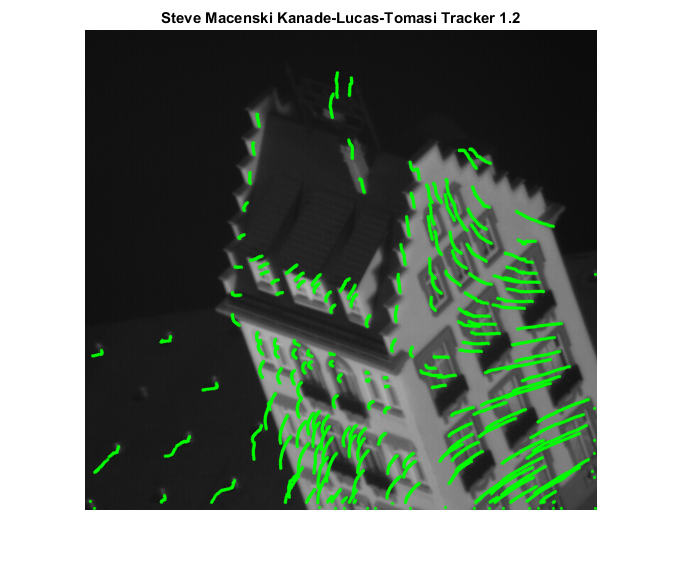
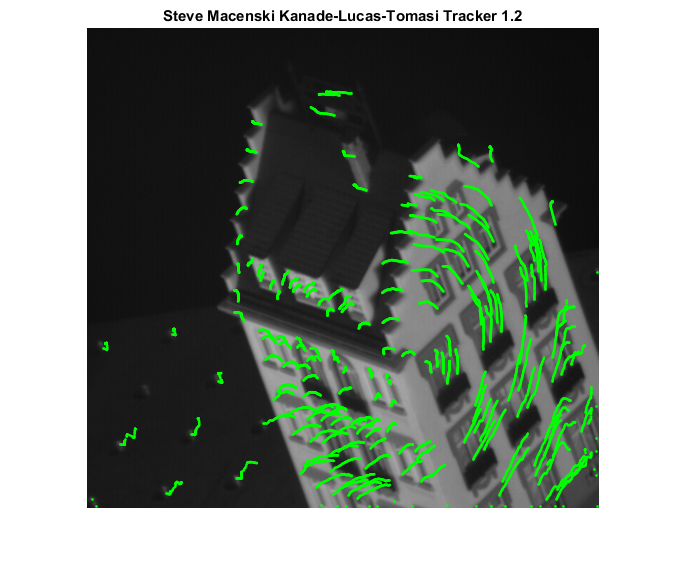
final hw2 commit

diff --git a/hw2/hw2_supp/tracking/runThis.m b/hw2/hw2_supp/tracking/runThis.m
@@ -34,7 +34,7 @@ startXs = Xkey; startYs = Ykey;
 trackingXs(:,1) = Xkey; trackingYs(:,1) = Ykey;
 
 for j = 1:num_im
-
+    
     %read in images
     im0 = double(imread(image_files{j}));
     im1 = double(imread(image_files{j+1}));
@@ -47,8 +47,8 @@ for j = 1:num_im
     % save keypoints over time
     trackingXs(:,j+1) = newXs; trackingYs(:,j+1) = newYs;
 end
-
-                        %     % display ALL results for visualization
+%%
+                            % display ALL results for visualization
 %                         figure(2)
 %                         imshow(im);
 %                         hold on;
@@ -59,12 +59,11 @@ end
 %                         points_out_of_boundsY = [];
 %                         points_in_boundX = [];
 %                         points_in_boundY = [];
-
+%%
 %find what points are in and out of bounds
 n=1;m=1;
 for i=1:num_keypoints
    if length(find(trackingXs(i,:) == 0)) >= 2 || length(find(trackingYs(i,:) == 0)) >= 2
-      
       points_out_of_boundsX(n,:) = trackingXs(i,:); 
       points_out_of_boundsY(n,:) = trackingYs(i,:); 
       n=n+1;
@@ -81,9 +80,8 @@ step_size = floor(step_size);
 for i = 1:20
     points_in_bound_plotX(i,:) = points_in_boundX(step_size*i,:);
     points_in_bound_plotY(i,:) = points_in_boundY(step_size*i,:);
-    
 end
-
+%%
     % display requested output 1 
 figure(3)
 imshow(im);
@@ -98,3 +96,4 @@ hold on;
 plot(points_out_of_boundsX,points_out_of_boundsY, 'g.', 'linewidth',3);
 title('Steve Macenski Kanade-Lucas-Tomasi Tracker out of frame 1.2')
 
+%%

diff --git a/hw2/hw2_supp/tracking/predictTranslation.m b/hw2/hw2_supp/tracking/predictTranslation.m
@@ -1,4 +1,4 @@
-function [ newX, newY ] = predictTranslation( startX, startY, Ix, Iy, im0, im1 )
+function [ newX, newY ] = predictTranslation( startX, startY, Ix, Iy, im0, im1, oldX, oldY )
 %predictTranslation, for single X,Y positions
 % Will interpolate Ix,Iy,im0,im1 for non-integer locations
 
@@ -6,8 +6,10 @@ function [ newX, newY ] = predictTranslation( startX, startY, Ix, Iy, im0, im1 )
 
   % find local 15x15 window It for current point
   [localX, localY] = meshgrid(startX-7:startX+7, startY-7:startY+7);
+  [localXO, localYO] = meshgrid(oldX-7:oldX+7, oldY-7:oldY+7);
+
   It = interp2(im1,localX, localY, 'linear') - ...
-            interp2(im0,localX, localY, 'linear');
+            interp2(im0,localXO, localYO, 'linear');
 
   % find sums to populate A and b matrices
   sumIx = sum(sum(Ix.*Ix));
@@ -22,7 +24,7 @@ function [ newX, newY ] = predictTranslation( startX, startY, Ix, Iy, im0, im1 )
   b = [-sumIxt; -sumIyt];
   x = A\b;
   u = x(1); v = x(2);
-  
+
   %update guess
   newX = startX + u;
   newY = startY + v;

diff --git a/hw2/hw2_supp/tracking/predictTranslationAll.m b/hw2/hw2_supp/tracking/predictTranslationAll.m
@@ -12,8 +12,8 @@ newYs = zeros(num_keypoints,1);
 
 % find gradient of im0
 P = fspecial('sobel');
-Ix = double(imfilter(im0, P)); %[1, 0, -1]
-Iy = double(imfilter(im0, P')); %[1, 0, -1]'
+Ix = double(imfilter(im0, P')); %[1, 0, -1]
+Iy = double(imfilter(im0, P)); %[1, 0, -1]'
 
 %for each keypoint
 for  i = 1:num_keypoints
@@ -34,8 +34,10 @@ for  i = 1:num_keypoints
         localIx = interp2(Ix, localX, localY, 'linear'); %try linear
         localIy = interp2(Iy, localX, localY, 'linear'); %try linear
     
+        oldX = newX;
+        oldY = newY;
         for j = 1:5
-            [newX, newY] = predictTranslation(newX, newY, localIx, localIy, im0, im1);
+            [newX, newY] = predictTranslation(newX, newY, localIx, localIy, im0, im1, oldX, oldY);
         end
         
         % store
